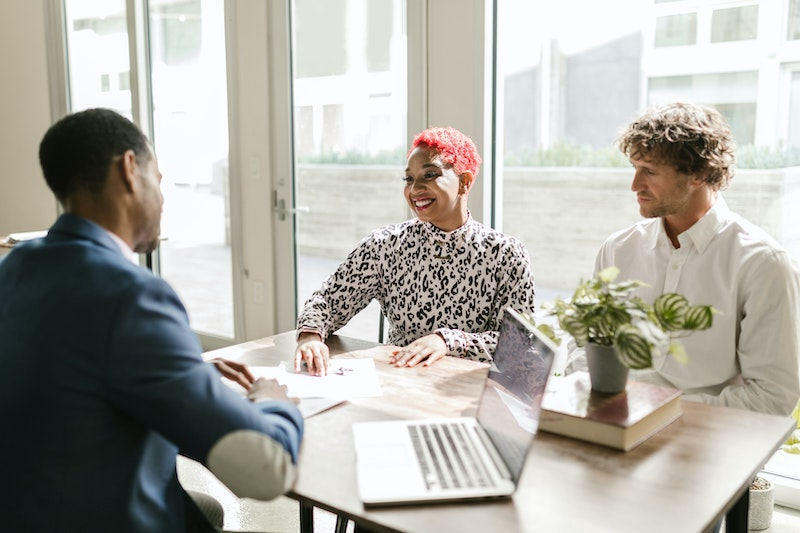
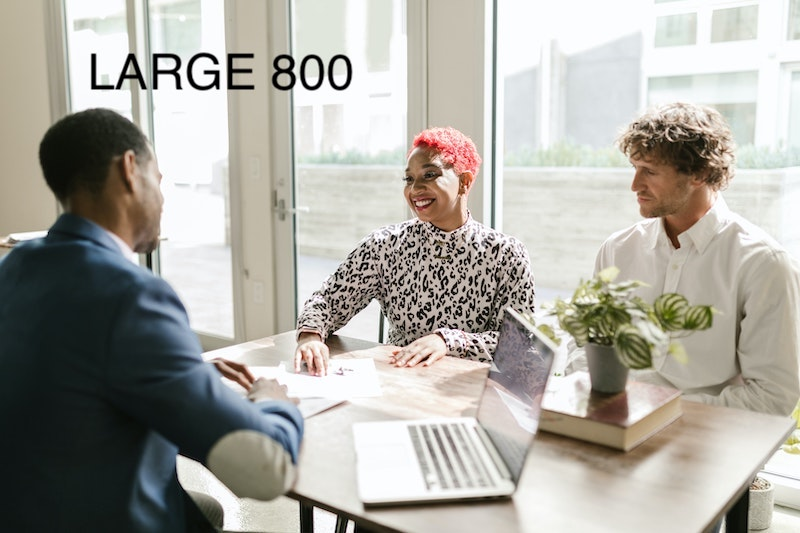
chamber revise

Changed region(s): [[0.0938, 0.0901, 0.4688, 0.1801]]

diff --git a/chamber/index.html b/chamber/index.html
@@ -31,7 +31,7 @@
     <div class="banner-head">British Columbia Industrial Marketing</div>
     <header>
         <div class="primary-header">
-            <img class="logo" src="images/logo.png" alt="Marketing Conference">
+            <img class="logo" src="images/logo.webp" alt="Marketing Conference">
             <button id="hamburger-button"><span>&equiv;</span><span>X</span></button>
             <nav>
                 <ul id="primary-nav">
@@ -62,16 +62,13 @@
                 <a href="#">Attend now</a>
             </div>
             <div class="hero-text">
-                <figure class="hero-image">
-                    <img src="images/wdd230-org.jpg" alt="golgothal" sizes="50vw"
-                            srcset="images/wdd230-org-small-200.jpg 200w,
-                                    images/wdd230-org-medium-500.jpg 500w,
-                                    images/wdd230-org-large-800.jpg 800w">
-                </figure>   
+                    <picture>
+                        <source srcset="images/wdd230-org-medium-500.jpg" media="(min-width: 560px) and (max-width: 1023px)">
+                        <source srcset="images/wdd230-org-large-800.jpg" media="(min-width: 1023px)">
+                        <img src="images/wdd230-org-small-200.jpg" alt="This is the hero image for this week">
+                    </picture>
 
                     <h1>Connect with like-minded marketers</h1>
-                    <p>through our events and programming</p>
-                
                 <div class="hero-button">Learn More</div>
             </div>
             <div class="spotlight">

diff --git a/chamber/styles/main.css b/chamber/styles/main.css
@@ -136,11 +136,10 @@ nav ul li.active a {
     margin: 20px;
 }
 
-.event, .hero-text, .spotlight, .news, .weather, .join-us{
+.hero-text, .event, .spotlight, .news, .weather, .join-us{
     flex-direction: column;
     background-color: #c6d4ed;
     padding: 0 10px 10px 10px;
-    display: flex;
     justify-content: center;
 }
 
@@ -164,7 +163,7 @@ nav ul li.active a {
 }
 
 .join-button{
-    width: 300px;
+    width: 200px;
     align-self: center;
 }
 
@@ -176,48 +175,45 @@ nav ul li.active a {
     border-radius: 5px;
 }
 
-figure.hero-image img{
-    margin: 0;
-}
 
 .hero-text {
-    grid-column: 1/2;
-    grid-row: 1/2;
+    position: relative;
     flex-direction: column;
     justify-content: center;
     align-items: center;
     height: 300px;   
 }
 
+.hero-text img  {
+    position: relative;
+    width: 100%;
+    height: auto;
+}
+
 
 .hero-text h1 {
     position: absolute;
     text-align: center;
-    margin-top: -50px;
+    top: 40px;
     color: #042a6c;
     font-size: 2rem;
-    inline-size: 400px;
     overflow-wrap: break-all;
 }
-.hero-text p {
-    position: absolute;
-    color: #042a6c;
-    font-size: 1rem;
-    text-align: center;
-    margin-top: 50px;
-}
+
 
 .hero-button{
     position: absolute;
+    text-align: center;
     cursor: pointer;
     color: white;
     padding: 0.6rem;
     background-color: #5489E7;
     border-radius: 5px;
     width: 200px;
-    text-align: center;
     font-size: 16px;
-    margin-bottom: -120px;
+    top: 240px;
+    left: 140px;
+    
 }
 
 

diff --git a/chamber/styles/large.css b/chamber/styles/large.css
@@ -10,6 +10,7 @@
 
   .event {
       grid-row: 1/2;
+      height: auto;
   }
   
   .hero-text {
@@ -19,34 +20,32 @@
   }
 
   .hero-text h1 {
-    font-size: 3rem;
-    inline-size: 500px;
-    overflow-wrap: break-all;
-  }
+    font-size: 2.5rem;
+    top: 120px;
+    margin-left: 30px;
+    align-items: center;
+}
 
-  .hero-text p {
-    font-size: 1.5rem;
-    overflow-wrap: break-all;
-    margin-top: 100px;
-  }
 
-  .hero-button{
-    margin-top: 150px;
-    width: 250px;
-    font-size: 20px;
+.hero-button{
+  top: 350px;
+  left: 350px;
 }
   
   .spotlight {
       grid-column: 5/6;
       grid-row: 1/4;
+      height: auto;
   }
 
   .spotlight-1 {
       grid-column: 1/3;
+      height: auto;
   }
 
   .spotlight-2 {
       grid-column: 1/3;
+      height: auto;
   }
 
   .spotlight-2,
@@ -61,6 +60,7 @@
   .weather {
       grid-column: 1/2;
       grid-row: 2/3;
+      height: auto;
   }
   
   .join-us {
@@ -72,5 +72,11 @@
       grid-column: 2/5;
       grid-row: 3/4;
   }
+
+  .hero-image {
+    margin: 0;
+    max-width: 100%;
+    height: auto;
+}
 
 }

diff --git a/chamber/styles/medium.css b/chamber/styles/medium.css
@@ -31,23 +31,27 @@
   
   .hero-text{
       grid-column: 1/3;
+      height: auto;
   }
 
   .hero-text h1 {
       font-size: 2.3rem;
-      inline-size: 400px;
       overflow-wrap: break-all;
+      text-align: center;
+      top: 120px;
+      left: 80px;
   }
 
-  .hero-text p {
-    font-size: 1.2rem;
-    inline-size: 400px;
-    overflow-wrap: break-all;
-    margin-top: 50px;
-}
 
 .hero-button{
-    margin-top: 100px;
+    top: 350px;
+    left: 300px;
+}
+
+.hero-text img  {
+    position: relative;
+    width: 100%;
+    height: auto;
 }
   
   .spotlight {
